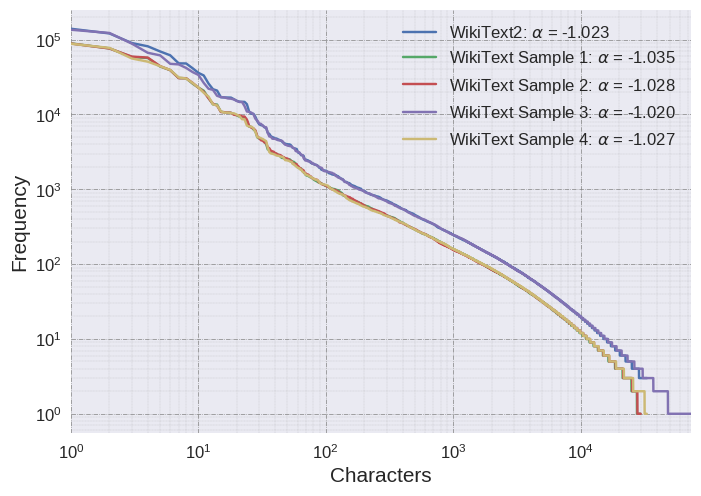
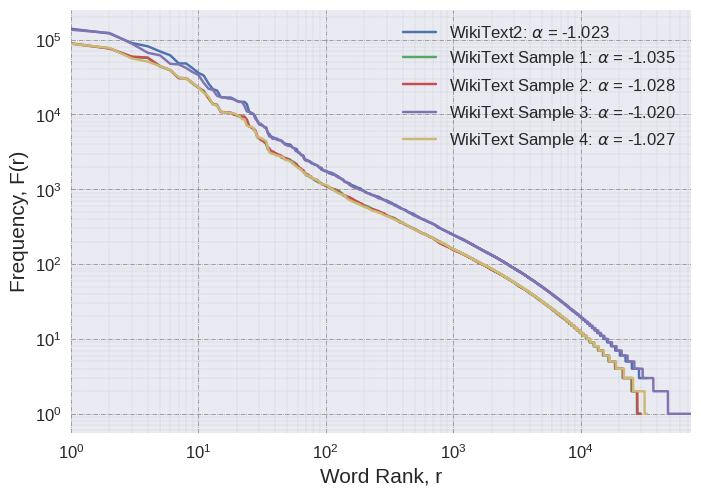
Up

Changed region(s): [[0.0, 0.3024, 0.0599, 0.6048], [0.4494, 0.9375, 0.6291, 0.998]]

diff --git a/dataset/paper_dataset/plot_zipf.py b/dataset/paper_dataset/plot_zipf.py
@@ -7,10 +7,10 @@ from scipy import optimize
 from sklearn.metrics import mean_squared_error
 from sklearn.metrics import mean_absolute_error
 
-# filenames = ['wiki2', 'wiki_sample_1', 'wiki_sample_2', 'wiki_sample_3', 'wiki_sample_4']
+filenames = ['wiki2', 'wiki_sample_1', 'wiki_sample_2', 'wiki_sample_3', 'wiki_sample_4']
 # filenames = ['SP2_V4_20','SP4_V4_20','SP2_V26_20','SP4_V26_20']
 # filenames = ['wiki103','wiki2']
-filenames = ['text8','text8-small','text8-small-wo-r-2','text8-small-wo-r-4']
+# filenames = ['text8','text8-small','text8-small-wo-r-2','text8-small-wo-r-4']
 all_words = []
 all_counts = []
 max_len = 0
@@ -64,16 +64,19 @@ for filename in filenames:
 with plt.style.context(('seaborn')):
 	ax = plt.axes()
 
-	plt.loglog(np.arange(1,len(all_counts[0])+1), all_counts[0], label="Text8: "+r'$\alpha$'+" = -1.0563")
+	plt.loglog(np.arange(1,len(all_counts[0])+1), all_counts[0], label="WikiText2: "+r'$\alpha$'+" = -1.023")
 	# plt.loglog(all_counts[0], powerlaw(np.array(all_counts[0]).astype(float), 1e6, -1.056310487080293), label="First Fit")
 
-	plt.loglog(np.arange(1,len(all_counts[1])+1), all_counts[1], label="Text8 (Small): "+r'$\alpha$'+" = -1.0550")
+	plt.loglog(np.arange(1,len(all_counts[1])+1), all_counts[1], label="WikiText Sample 1: "+r'$\alpha$'+" = -1.035")
 	# plt.loglog(all_counts[1], powerlaw(np.array(all_counts[1]).astype(float), 0.2*1e6, -1.05507833693917), label="Second Fit")
 
-	plt.loglog(np.arange(1,len(all_counts[2])+1), all_counts[2], label="Text8 (w/o Rare Small): "+r'$\alpha$'+" = -1.0573")
+	plt.loglog(np.arange(1,len(all_counts[2])+1), all_counts[2], label="WikiText Sample 2: "+r'$\alpha$'+" = -1.028")
 	# plt.loglog(all_counts[2], powerlaw(np.array(all_counts[2]).astype(float), 0.2*1e6, -1.0573763273014645), label="Third Fit")
 
-	plt.loglog(np.arange(1,len(all_counts[3])+1), all_counts[3], label="Text8 (w/o Rare (4) Small): "+r'$\alpha$'+" = -1.0576")
+	plt.loglog(np.arange(1,len(all_counts[3])+1), all_counts[3], label="WikiText Sample 3: "+r'$\alpha$'+" = -1.020")
+	# plt.loglog(all_counts[3], powerlaw(np.array(all_counts[3]).astype(float), 0.2*1e6, -1.0576934993354605), label="Fourth Fit")
+
+	plt.loglog(np.arange(1,len(all_counts[4])+1), all_counts[4], label="WikiText Sample 4: "+r'$\alpha$'+" = -1.027")
 	# plt.loglog(all_counts[3], powerlaw(np.array(all_counts[3]).astype(float), 0.2*1e6, -1.0576934993354605), label="Fourth Fit")
 
 	plt.tick_params(labelsize='large', width=5)
@@ -81,8 +84,8 @@ with plt.style.context(('seaborn')):
 	plt.grid(which='major', linestyle='-.', linewidth='0.5', color='grey')
 	plt.grid(which='minor', linestyle=':', linewidth='0.2', color='grey')
 	ax.set_xlim(1, max_len+1)
-	plt.xlabel('Characters', fontsize=15)
-	plt.ylabel('Frequency', fontsize=15)
+	plt.xlabel('Word Rank, r', fontsize=15)
+	plt.ylabel('Frequency, F(r)', fontsize=15)
 	lgd = ax.legend(loc='upper right', shadow=True, fancybox=True, ncol=1, numpoints=1, prop={'size': 12})
-	plt.savefig('zipf_plots_text', bbox_extra_artists=(lgd,), bbox_inches='tight')
+	plt.savefig('zipf_plots_wiki_samples', bbox_extra_artists=(lgd,), bbox_inches='tight')
 	plt.show()

diff --git a/paper_related/spk/plot_sp.py b/paper_related/spk/plot_sp.py
@@ -50,16 +50,16 @@ for filename in filenames:
 with plt.style.context(('seaborn')):
     ax = plt.axes()
 
-    plt.loglog(np.arange(1,len(all_mi[24])+1), all_mi[24], color='black', label="PTB Characters")
-    plt.loglog(np.arange(1,len(all_mi[25])+1), all_mi[25], color='slategrey', label="WikiText2 Characters")
+    # plt.loglog(np.arange(1,len(all_mi[24])+1), all_mi[24], color='black', label="PTB Characters")
+    # plt.loglog(np.arange(1,len(all_mi[25])+1), all_mi[25], color='slategrey', label="WikiText2 Characters")
     # plt.loglog(np.arange(1,len(all_mi[26])+1), all_mi[26], color='brown', label="Text8 Characters")
     # plt.loglog(np.arange(1,len(all_mi[27])+1), all_mi[27], color='gold', label="Enwik8 Characters")
     plt.loglog(np.arange(1,len(all_mi[0])+1), all_mi[0], label="SP2, L=20, V=4, FS={ab,bc}")
     plt.loglog(np.arange(1,len(all_mi[1])+1), all_mi[1], label="SP2, L=100, V=4, FS={ab,bc}")
-    plt.loglog(np.arange(1,len(all_mi[2])+1), all_mi[2], label="SP2, L=200, V=4, FS={ab,bc}")
-    plt.loglog(np.arange(1,len(all_mi[3])+1), all_mi[3], label="SP2, L=500, V=4, FS={ab,bc}")
-    plt.loglog(np.arange(1,len(all_mi[22])+1), all_mi[22], label="SP2, L=5000, V=4, FS={ab,bc}")
-    plt.loglog(np.arange(1,len(all_mi[23])+1), all_mi[23], label="SP2, L=10000, V=4, FS={ab,bc}")
+    # plt.loglog(np.arange(1,len(all_mi[2])+1), all_mi[2], label="SP2, L=200, V=4, FS={ab,bc}")
+    # plt.loglog(np.arange(1,len(all_mi[3])+1), all_mi[3], label="SP2, L=500, V=4, FS={ab,bc}")
+    # plt.loglog(np.arange(1,len(all_mi[22])+1), all_mi[22], label="SP2, L=5000, V=4, FS={ab,bc}")
+    # plt.loglog(np.arange(1,len(all_mi[23])+1), all_mi[23], label="SP2, L=10000, V=4, FS={ab,bc}")
 
     # plt.loglog(np.arange(1,len(all_mi[4])+1), all_mi[4], label="SP2, L=100, V=4, FS={ab,bc}")
     # plt.loglog(np.arange(1,len(all_mi[5])+1), all_mi[5], label="SP4, L=100, V=4, FS={abba,bccb}")
@@ -109,11 +109,11 @@ with plt.style.context(('seaborn')):
     plt.grid(True)
     plt.grid(which='major', linestyle='-.', linewidth='0.5', color='grey')
     plt.grid(which='minor', linestyle=':', linewidth='0.2', color='grey')
-    ax.set_xlim(1, 15000)
+    ax.set_xlim(1, 1000)
     # ax.set_ylim(4.3e-11, 0.65)
     print(ax.get_ylim())
     ax.set_xlabel('Distance between symbols (Lag), d', fontsize=15)
     ax.set_ylabel('Mutual Information, I(d)', fontsize=15)
     lgd = ax.legend(loc='lower left', shadow=True, fancybox=True, numpoints=3, prop={'size': 10})
-    plt.savefig('reg_grammars_sp_len', bbox_extra_artists=(lgd,), bbox_inches='tight')
+    plt.savefig('hyper_sp', bbox_extra_artists=(lgd,), bbox_inches='tight')
     plt.show()
